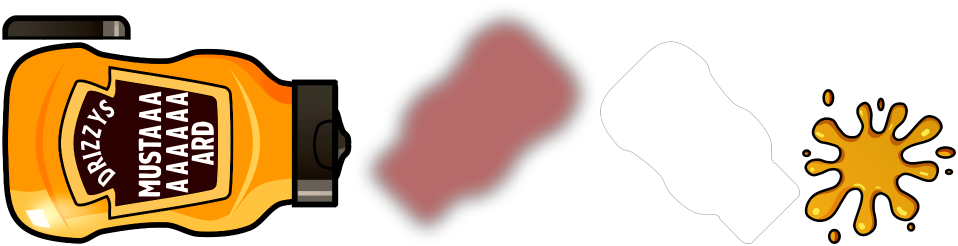
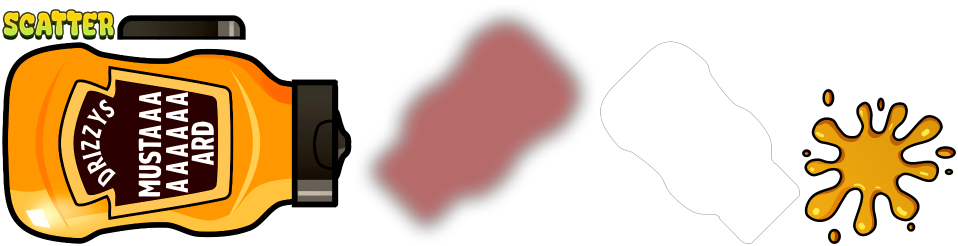
added scatter text to mustard scatter animation, prevent btton click to buy bonus when balance is too low

Changed region(s): [[0.0, 0.0285, 0.2724, 0.1707]]

diff --git a/apps/brainrot/src/components/BuyButtonBoundingBoxes.svelte b/apps/brainrot/src/components/BuyButtonBoundingBoxes.svelte
@@ -15,6 +15,12 @@
 
 	const bounds = new spine.SkeletonBounds();
 
+	// Check if player has enough balance for bonus buy (100x bet)
+	const hasEnoughBalance = $derived(() => {
+		const bonusBuyCost = stateBet.betAmount * 100;
+		return stateBet.balanceAmount >= bonusBuyCost;
+	});
+
 	// Refresh bounds with current pose
 	function refreshBounds() {
 		// In spine-pixi-v8, updateWorldTransform requires a Physics parameter
@@ -61,6 +67,12 @@
 	// Handle pointer down on the spine
 	function onPointerDown(e: FederatedPointerEvent) {
 		if (hitBox('yes_place_holder2', e)) {
+			// Check if player has enough balance
+			if (!hasEnoughBalance()) {
+				// Don't do anything if insufficient balance
+				return;
+			}
+
 			// Play button sound
 			context.eventEmitter.broadcast({ type: 'soundPressGeneral' });
 
@@ -85,6 +97,22 @@
 			stateBuyButton.loop = false;
 		}
 	}
+
+	// Update the yes button appearance based on balance
+	$effect(() => {
+		const greenButton = spineInstance.skeleton.findSlot('green_button');
+		const greenButton2 = spineInstance.skeleton.findSlot('green_button2');
+
+		if (hasEnoughBalance()) {
+			// Normal appearance - white tint, full opacity
+			if (greenButton) greenButton.color.set(1, 1, 1, 1);
+			if (greenButton2) greenButton2.color.set(1, 1, 1, 1);
+		} else {
+			// Greyed out appearance - darker tint, reduced opacity
+			if (greenButton) greenButton.color.set(0.4, 0.4, 0.4, 0.5);
+			if (greenButton2) greenButton2.color.set(0.4, 0.4, 0.4, 0.5);
+		}
+	});
 
 	// Make the spine interactive when component mounts
 	onMount(() => {
